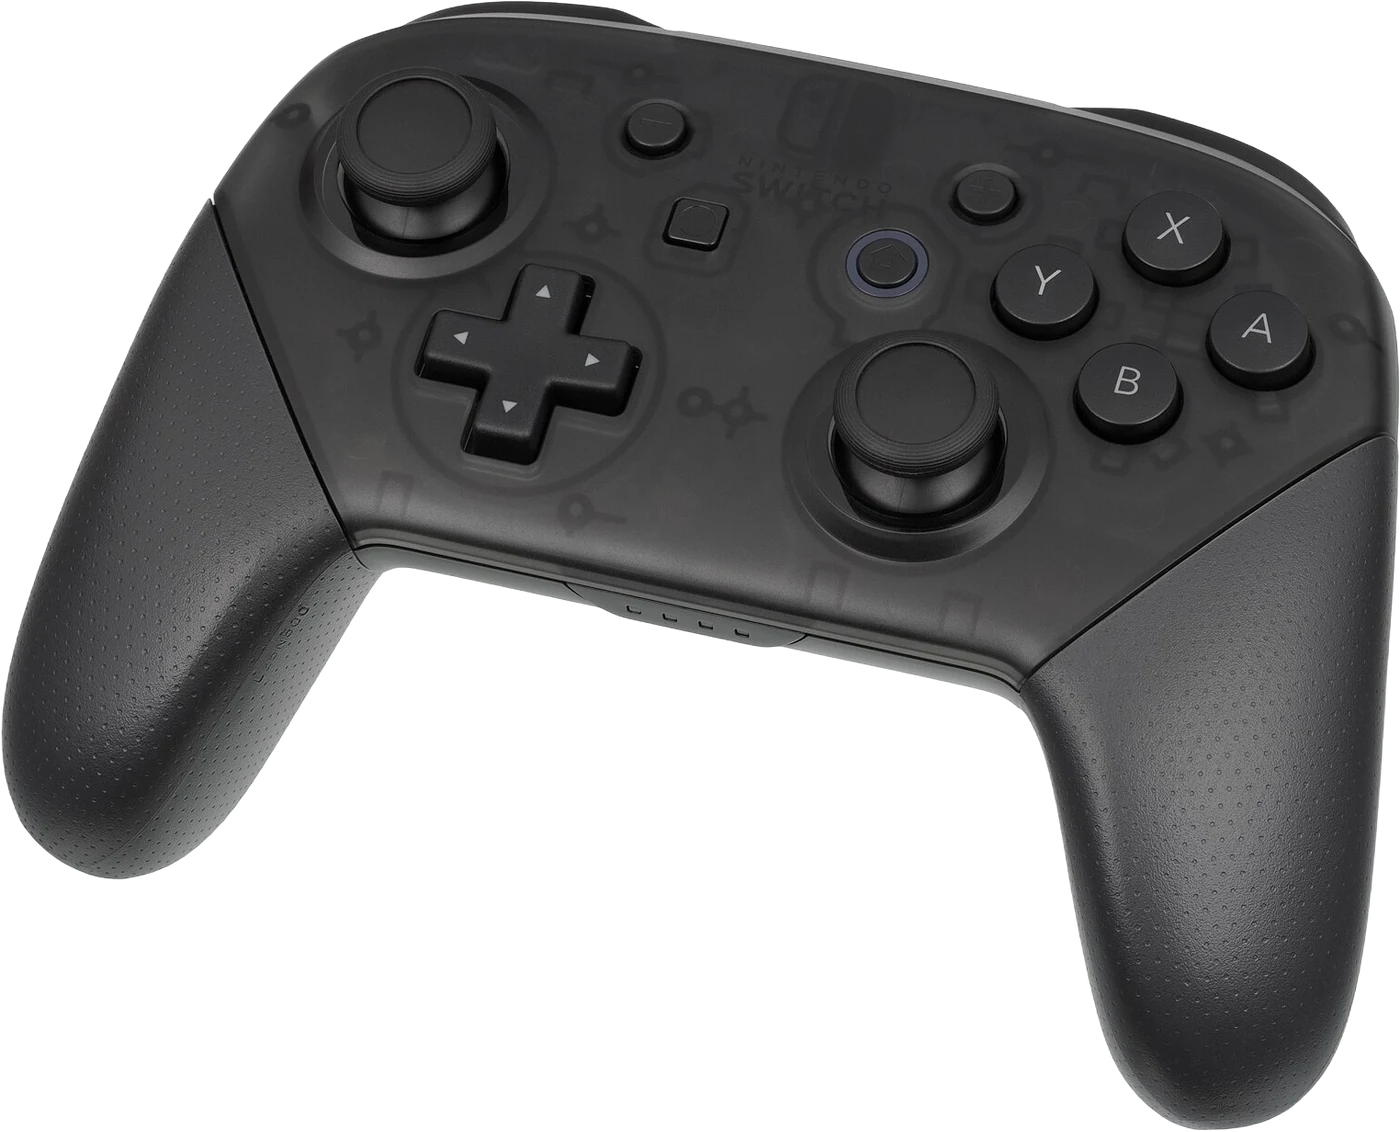
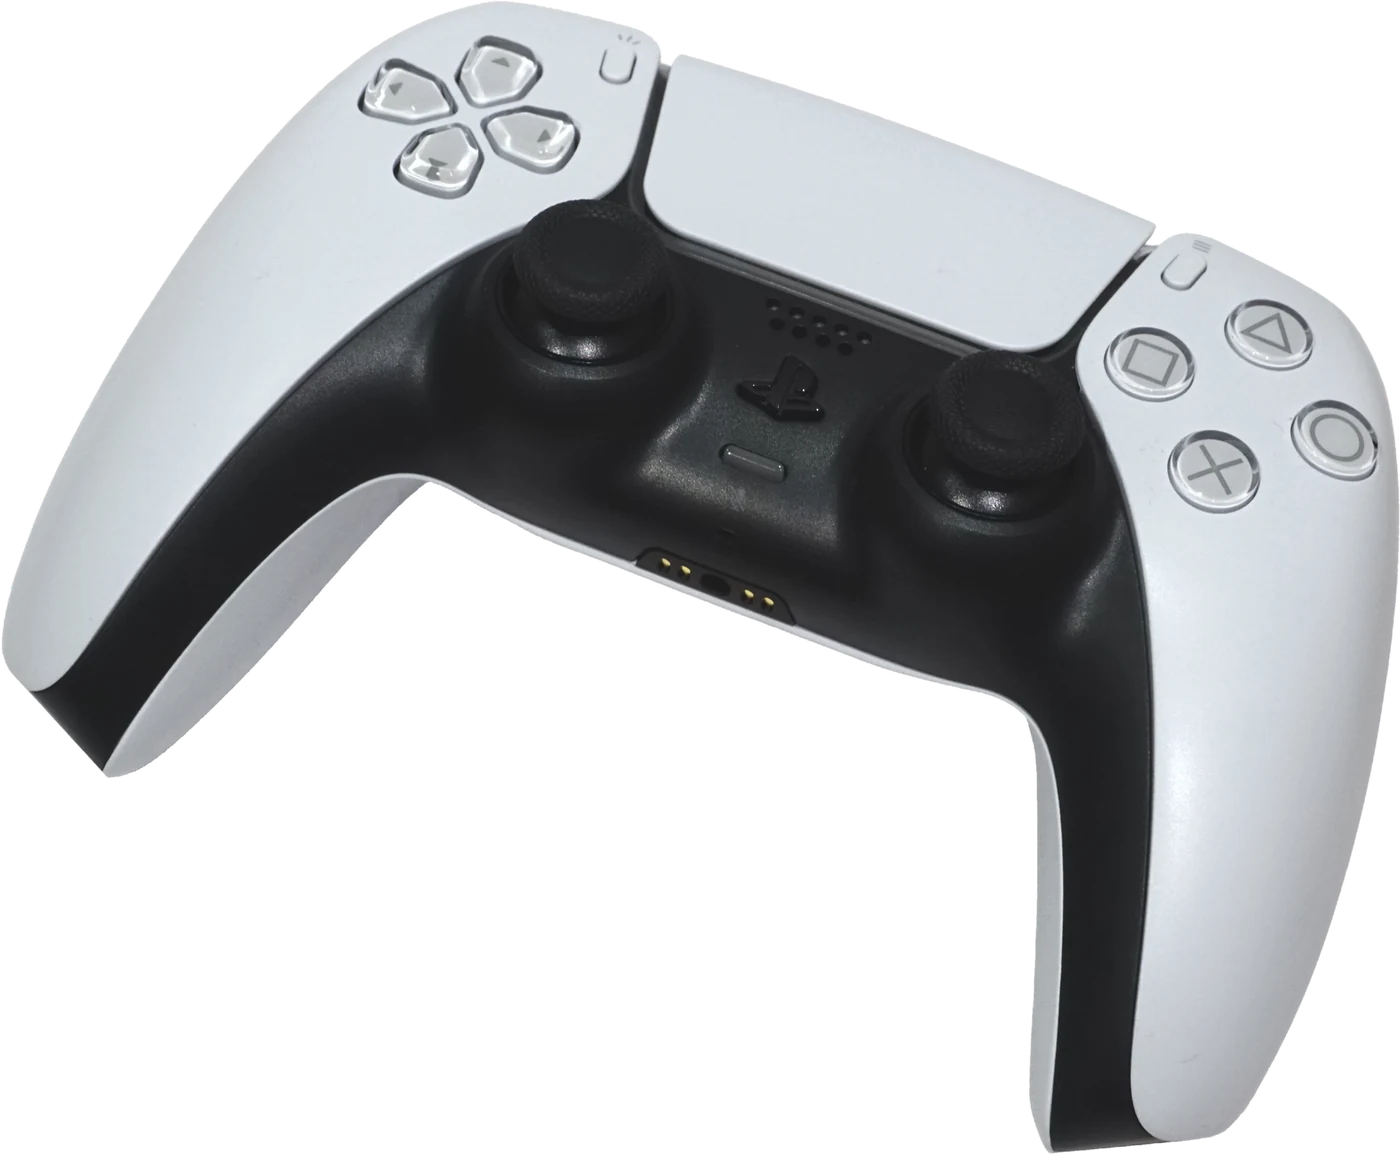
About: tilting float, scroll-driven blur text, new photos
- Objects now rock gently as they float (tilt one way on the way up, level
  at the top, the other way on the way down).
- Each object's words stay hidden until the reader scrolls to them, then
  sharpen out of a blur word by word, scrubbed by the scroll position.
- New placeholder photos: PS5 DualSense, AirPods Max, 15" MacBook Air and
  chrome dumbbells; the books are removed. Credits updated.

Claude-Session: https://claude.ai/code/session_01TSozLjZzaYmUKdj9s6vN2A

diff --git a/src/components/story.tsx b/src/components/story.tsx
@@ -55,35 +55,33 @@ function curve(points: { x: number; y: number }[]) {
   return d;
 }
 
-/** Words that come into focus one after another, like a thought forming. */
-function Focus({ text, className, delay = 0, as: Tag = "p" }: { text: string; className?: string; delay?: number; as?: "p" | "h3" }) {
-  const reduce = useReducedMotion();
-  const MotionTag = Tag === "h3" ? motion.h3 : motion.p;
-  if (reduce) return <Tag className={className}>{text}</Tag>;
+type Progress = ReturnType<typeof useScroll>["scrollYProgress"];
+
+/** A word that comes into focus out of a blur as the reader scrolls to it. */
+function BlurWord({ children, progress, range }: { children: string; progress: Progress; range: [number, number] }) {
+  const opacity = useTransform(progress, range, [0, 1]);
+  const blur = useTransform(progress, range, [12, 0]);
+  const filter = useTransform(blur, (b) => (b < 0.05 ? "none" : `blur(${b}px)`));
+  const y = useTransform(progress, range, [10, 0]);
   return (
-    <MotionTag
-      className={className}
-      initial="hidden"
-      whileInView="shown"
-      viewport={{ once: true, amount: 0.6, margin: "0px 0px -12% 0px" }}
-      transition={{ staggerChildren: 0.045, delayChildren: delay }}
-      aria-label={text}
-    >
-      {text.split(" ").map((w, i) => (
-        <motion.span
-          key={i}
-          aria-hidden
-          className="mr-[0.25em] inline-block"
-          variants={{
-            hidden: { opacity: 0, filter: "blur(14px)", y: 10 },
-            shown: { opacity: 1, filter: "blur(0px)", y: 0, transition: { duration: 0.9, ease: EASE } },
-          }}
-        >
-          {w}
-        </motion.span>
-      ))}
-    </MotionTag>
+    <motion.span aria-hidden style={{ opacity, filter, y }} className="mr-[0.25em] inline-block">
+      {children}
+    </motion.span>
   );
+}
+
+/** Splits text into scroll-revealed words; `from`/`count` place it in the shared sequence. */
+function BlurText({ text, progress, from, count }: { text: string; progress: Progress; from: number; count: number }) {
+  return text.split(" ").map((w, i) => {
+    // Each word starts a little after the previous one and overlaps it, so
+    // the line resolves like a thought forming rather than a typewriter.
+    const start = ((from + i) / count) * 0.7;
+    return (
+      <BlurWord key={i} progress={progress} range={[start, Math.min(1, start + 0.3)]}>
+        {w}
+      </BlurWord>
+    );
+  });
 }
 
 /** A word that darkens as the reader's scroll passes over it, pacing the paragraph. */
@@ -123,6 +121,15 @@ function Chapter({ obj, index, anchor }: { obj: Obj; index: number; anchor: (el:
   const y = useTransform(scrollYProgress, [0, 1], reduce ? [0, 0] : [70 * place.d, -70 * place.d]);
   const left = place.side === "left";
 
+  // Text reveal, driven by scroll: nothing shows while the block enters the
+  // screen; it is fully sharp by the time it reaches the upper middle.
+  const words = useRef<HTMLDivElement>(null);
+  const { scrollYProgress: reveal } = useScroll({ target: words, offset: ["start 0.92", "end 0.6"] });
+  const captionWords = obj.caption.split(" ").length;
+  const total = captionWords + (obj.story ? obj.story.split(" ").length : 0);
+  const lead = useTransform(reveal, [0, 0.15], [0, 1]);
+  const tail = useTransform(reveal, [0.85, 1], [0, 1]);
+
   return (
     <li
       ref={row}
@@ -145,9 +152,18 @@ function Chapter({ obj, index, anchor }: { obj: Obj; index: number; anchor: (el:
         >
           {/* The thread is drawn through this point. */}
           <span ref={anchor} aria-hidden className="absolute left-1/2 top-1/2 h-px w-px" />
-          {/* Contact shadow stays put while the object bobs above it */}
+          {/* Contact shadow stays put while the object bobs and rocks above it */}
           <span aria-hidden className="absolute -bottom-5 left-1/2 h-6 w-[70%] -translate-x-1/2 rounded-full bg-ink/20 blur-xl" />
-          <span className="float group block" style={{ "--float-d": `${6 + (index % 3)}s`, "--float-delay": `${-index * 1.1}s` } as React.CSSProperties}>
+          <span
+            className="float-tilt group block"
+            style={
+              {
+                "--float-d": `${6.5 + (index % 3)}s`,
+                "--float-delay": `${-index * 1.3}s`,
+                "--tilt": `${(index % 2 ? -1 : 1) * (2 + (index % 3) * 0.6)}deg`,
+              } as React.CSSProperties
+            }
+          >
             <Image
               src={obj.src}
               width={obj.width}
@@ -163,22 +179,25 @@ function Chapter({ obj, index, anchor }: { obj: Obj; index: number; anchor: (el:
         </motion.div>
       </div>
 
-      {/* Its words, in the empty space beside it */}
-      <div className={`relative z-[46] md:row-start-1 ${place.text} ${left ? "" : "md:text-right"}`}>
-        <span className="mb-4 block font-mono text-sm text-purple">{String(index + 1).padStart(2, "0")}</span>
-        <Focus
-          as="h3"
-          text={obj.caption}
-          className="font-display text-[clamp(1.85rem,3.1vw,2.9rem)] font-semibold leading-[1.08] tracking-[-0.035em]"
-        />
+      {/* Its words, in the empty space beside it. Hidden until the reader
+          scrolls to them, then each word sharpens out of a blur. */}
+      <div ref={words} className={`relative z-[46] md:row-start-1 ${place.text} ${left ? "" : "md:text-right"}`}>
+        <motion.span style={{ opacity: reduce ? 1 : lead }} className="mb-4 block font-mono text-sm text-purple">
+          {String(index + 1).padStart(2, "0")}
+        </motion.span>
+        <h3 aria-label={obj.caption} className="font-display text-[clamp(1.85rem,3.1vw,2.9rem)] font-semibold leading-[1.08] tracking-[-0.035em]">
+          {reduce ? obj.caption : <BlurText text={obj.caption} progress={reveal} from={0} count={total} />}
+        </h3>
         {obj.story && (
-          <Focus
-            text={obj.story}
-            delay={0.25}
-            className={`mt-5 max-w-[42ch] text-lg leading-relaxed text-soft md:text-xl ${left ? "" : "md:ml-auto"}`}
-          />
+          <p aria-label={obj.story} className={`mt-5 max-w-[42ch] text-lg leading-relaxed text-soft md:text-xl ${left ? "" : "md:ml-auto"}`}>
+            {reduce ? obj.story : <BlurText text={obj.story} progress={reveal} from={captionWords} count={total} />}
+          </p>
         )}
-        {obj.credit && <p className="mt-4 text-xs text-soft/70">{obj.credit}</p>}
+        {obj.credit && (
+          <motion.p style={{ opacity: reduce ? 1 : tail }} className="mt-4 text-xs text-soft/70">
+            {obj.credit}
+          </motion.p>
+        )}
       </div>
     </li>
   );

diff --git a/src/content/defaults.ts b/src/content/defaults.ts
@@ -52,35 +52,27 @@ export const story = {
   objects: [
     {
       file: "laptop.webp",
-      label: "My laptop",
+      label: "My MacBook Air",
       caption: "It works on my machine. I checked twice.",
       story: "Where the day job happens: APIs, queues, databases and the quiet work of making them boring. There is always a terminal open.",
       size: "large",
-      credit: "Photo: iFixit, CC BY-SA 3.0",
+      credit: "Photo: KKPCW, CC BY-SA 4.0",
     },
     {
       file: "controller.webp",
-      label: "A game controller",
+      label: "A PS5 controller",
       caption: "One more match, then bed. Probably.",
       story: "Games taught me systems thinking before I had a name for it: every rule leans on every other rule. I still play most evenings, mostly co-op, always too late.",
       size: "medium",
-      credit: "",
+      credit: "Photo: Viper polo, CC BY-SA 4.0",
     },
     {
       file: "headphones.webp",
-      label: "Headphones",
+      label: "AirPods Max",
       caption: "Long walks, longer playlists.",
       story: "My best ideas rarely show up at the desk. I walk, I listen, and whatever I was stuck on usually comes loose somewhere around the second album.",
       size: "medium",
-      credit: "Photo: RPSkokie, CC BY-SA 4.0",
-    },
-    {
-      file: "books.webp",
-      label: "A stack of books",
-      caption: "Reading the Raft paper. Slowly.",
-      story: "Papers and old books, with equal patience. The classics of distributed systems hold up better than most of what gets written about them today.",
-      size: "medium",
-      credit: "",
+      credit: "Photo: Arne, CC BY-SA 3.0 DE",
     },
     {
       file: "dumbbells.webp",
@@ -88,7 +80,7 @@ export const story = {
       caption: "Lifting things that aren't servers.",
       story: "Training keeps my head clear, and it's the most honest feedback loop I know: show up consistently and the numbers move.",
       size: "medium",
-      credit: "",
+      credit: "Photo: Ericdumbbell, CC BY-SA 4.0",
     },
     {
       file: "bulb.webp",

diff --git a/src/app/(site)/globals.css b/src/app/(site)/globals.css
@@ -129,6 +129,16 @@ html[data-intro="play"] body { overflow: hidden; }
 }
 .float { animation: float var(--float-d, 6s) ease-in-out infinite; animation-delay: var(--float-delay, 0s); }
 
+/* Floating with a gentle rock: lifts while tipping one way, levels out at the
+   top, tips the other way on the way down. --tilt sets how far (and which way). */
+@keyframes float-tilt {
+  0%, 100% { transform: translateY(0) rotate(0deg); }
+  25% { transform: translateY(-7px) rotate(var(--tilt, 2.5deg)); }
+  50% { transform: translateY(-12px) rotate(0deg); }
+  75% { transform: translateY(-5px) rotate(calc(var(--tilt, 2.5deg) * -1)); }
+}
+.float-tilt { animation: float-tilt var(--float-d, 7s) ease-in-out infinite; animation-delay: var(--float-delay, 0s); }
+
 @keyframes marquee {
   from { transform: translateX(0); }
   to { transform: translateX(-50%); }
@@ -196,5 +206,6 @@ html[data-intro="play"] body { overflow: hidden; }
 @media (prefers-reduced-motion: reduce) {
   .marquee,
   .float,
+  .float-tilt,
   .mesh > span { animation: none; }
 }

diff --git a/content/objects/LICENSE.md b/content/objects/LICENSE.md
@@ -4,15 +4,13 @@ things in the dashboard (Home → About → objects).
 
 | File | Source | Author | License |
 | --- | --- | --- | --- |
-| controller.webp | [Nintendo-Switch-Pro-Controller-FL.jpg](https://commons.wikimedia.org/wiki/File:Nintendo-Switch-Pro-Controller-FL.jpg) | Evan-Amos | Public domain |
-| laptop.webp | [Macbook Air.jpg](https://commons.wikimedia.org/wiki/File:Macbook_Air.jpg) | iFixit | [CC BY-SA 3.0](https://creativecommons.org/licenses/by-sa/3.0/) |
-| headphones.webp | [Sony WH-CH510 Bluetooth Over-Ear Headphone.jpg](https://commons.wikimedia.org/wiki/File:Sony_WH-CH510_Bluetooth_Over-Ear_Headphone.jpg) | RPSkokie | [CC BY-SA 4.0](https://creativecommons.org/licenses/by-sa/4.0/) |
-| books.webp | [Old Books 01.JPG](https://commons.wikimedia.org/wiki/File:Old_Books_01.JPG) | Ch. Maderthoner | CC0 |
-| dumbbells.webp | [Kurzhanteln 2 x 15 kg 2v2.jpg](https://commons.wikimedia.org/wiki/File:Kurzhanteln_2_x_15_kg_2v2.jpg) | Singlespeedfahrer | CC0 |
+| controller.webp | [Playstation DualSense Controller.png](https://commons.wikimedia.org/wiki/File:Playstation_DualSense_Controller.png) | Viper polo | [CC BY-SA 4.0](https://creativecommons.org/licenses/by-sa/4.0/) |
+| laptop.webp | [Macbook Air 15 inch - 1.jpg](https://commons.wikimedia.org/wiki/File:Macbook_Air_15_inch_-_1.jpg) | KKPCW (Kyu3) | [CC BY-SA 4.0](https://creativecommons.org/licenses/by-sa/4.0/) |
+| headphones.webp | [Apple airpods max 2.jpg](https://commons.wikimedia.org/wiki/File:Apple_airpods_max_2.jpg) | Arne | [CC BY-SA 3.0 DE](https://creativecommons.org/licenses/by-sa/3.0/de/) |
+| dumbbells.webp | [Chrome dumbbells.jpg](https://commons.wikimedia.org/wiki/File:Chrome_dumbbells.jpg) | Ericdumbbell | [CC BY-SA 4.0](https://creativecommons.org/licenses/by-sa/4.0/) |
 | bulb.webp | [LEDfilamentLightBulbE27.jpg](https://commons.wikimedia.org/wiki/File:LEDfilamentLightBulbE27.jpg) | Liebeskind | [CC BY-SA 4.0](https://creativecommons.org/licenses/by-sa/4.0/) |
 | plant.webp | [Plant tangerine in a pot.jpg](https://commons.wikimedia.org/wiki/File:Plant_tangerine_in_a_pot.jpg) | Petr Smagin | [CC BY 4.0](https://creativecommons.org/licenses/by/4.0/) |
 
-The CC BY and CC BY-SA images need this credit wherever they are shown. If you
-keep any of them on the live site, add a line such as "Placeholder photos from
-Wikimedia Commons, see content/objects/LICENSE.md" to the footer, or simply
-replace them with your own photos.
+All of them need their credit wherever they are shown. The site shows it in
+small type under each photo, from the object's "Photo credit" field. When you
+swap in a photo of your own, clear that field.
